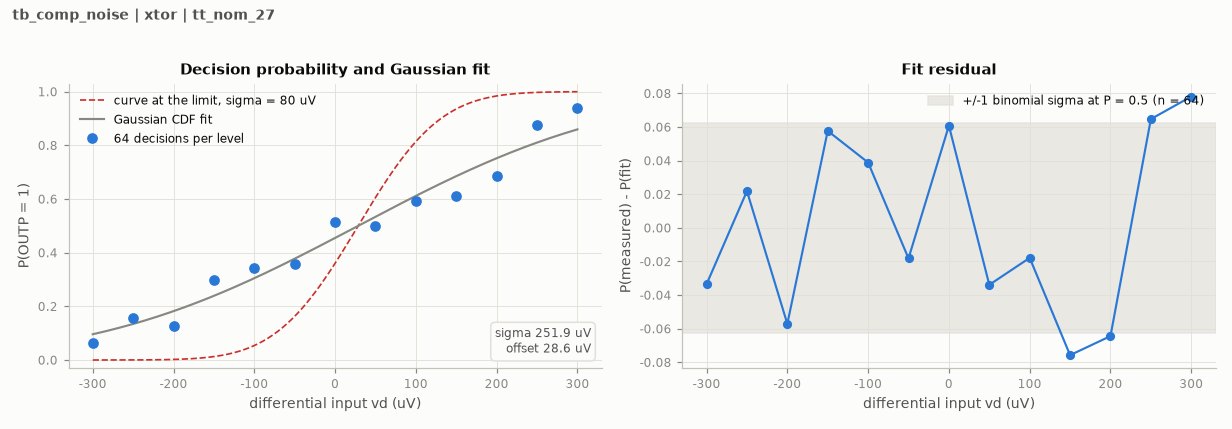
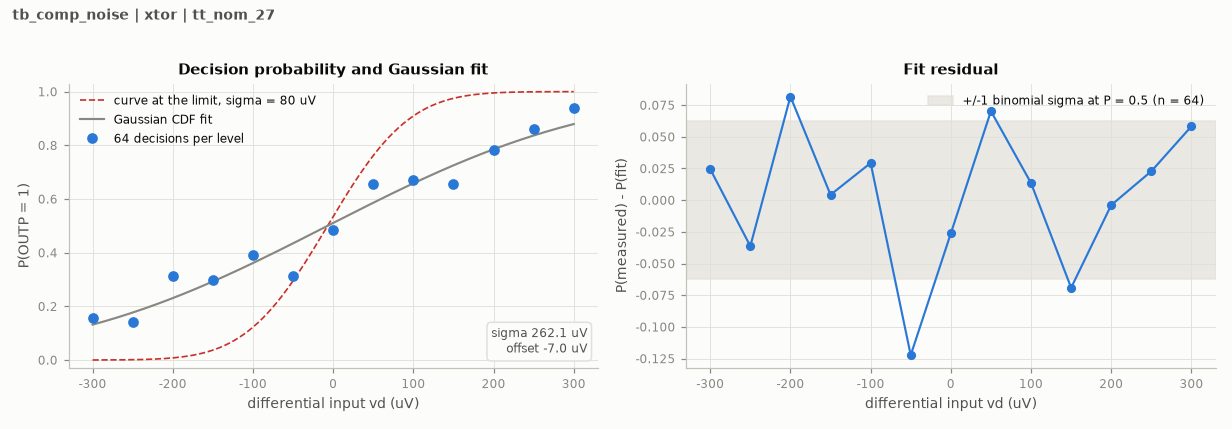
feat(adc_comp): checkpoint Miyahara self-timed core

diff --git a/design/xtor/adc_comp/README.md b/design/xtor/adc_comp/README.md
@@ -7,10 +7,13 @@ return-to-zero output inverters. The embedded RNL records show every device,
 wire and body connection and identify the differential pair, matched devices,
 regenerative group and reset group.
 
-Current checkpoint `dt01` is an exploratory two-stage circuit with a dynamic
-NMOS preamplifier and a complementary PMOS-input regenerative stage, each
-with its own tail. Its second-stage reset uses an inverted clock. It is a
-comparison experiment, not a reproduction of Miyahara's self-timed core.
+Current checkpoint `my01` implements the self-timed core (M1-M15) of
+Miyahara et al., "A Low-Noise Self-Calibrating Dynamic Comparator for
+High-Speed ADCs," A-SSCC 2008, Fig. 2(b), DOI 10.1109/ASSCC.2008.4708780.
+The paper's offset-compensation devices and charge pump are omitted. P/N
+drive both the second-stage PMOS input devices and its NMOS reset devices;
+there is no second-stage clock or explicit shared tail. Positive input
+difference lowers P first and raises OUTP, preserving the required polarity.
 
 ## Reproducible checkpoints
 
@@ -82,7 +85,14 @@ considering a two-stage topology.
 | Experiment | Noise | Delay at 1 mV / 30 mV | Reset | Energy | Cin | Kickback |
 |---|---|---|---|---|---|---|
 | dt01 | 251.9 uV | 56.25 / 44.27 ps | 14.70 ps | 115.32 fJ | 14.25 fF | 0.037 uV |
+| my01 | 262.1 uV | 59.34 / 48.31 ps | 31.06 ps | 115.16 fJ | 14.25 fF | 0.007 uV |
 
 The two-stage clocked comparison meets the TT timing, energy, input-capacitance
 and kickback limits, but still fails noise. Its exact source and results are
 preserved before moving to the self-timed topology.
+
+The my01 self-timed core also passes the measured TT limits except noise.
+The difference between its noise fit and dt01 is small relative to the
+limited number of noise decisions; neither is close to 80 uV. Its total MOS
+widths are 40 um (input), 1.5 um (tail), 3 um (second-stage PMOS input),
+3/2 um (PMOS/NMOS regeneration), and 2 um (reset), all at 30 nm length.
